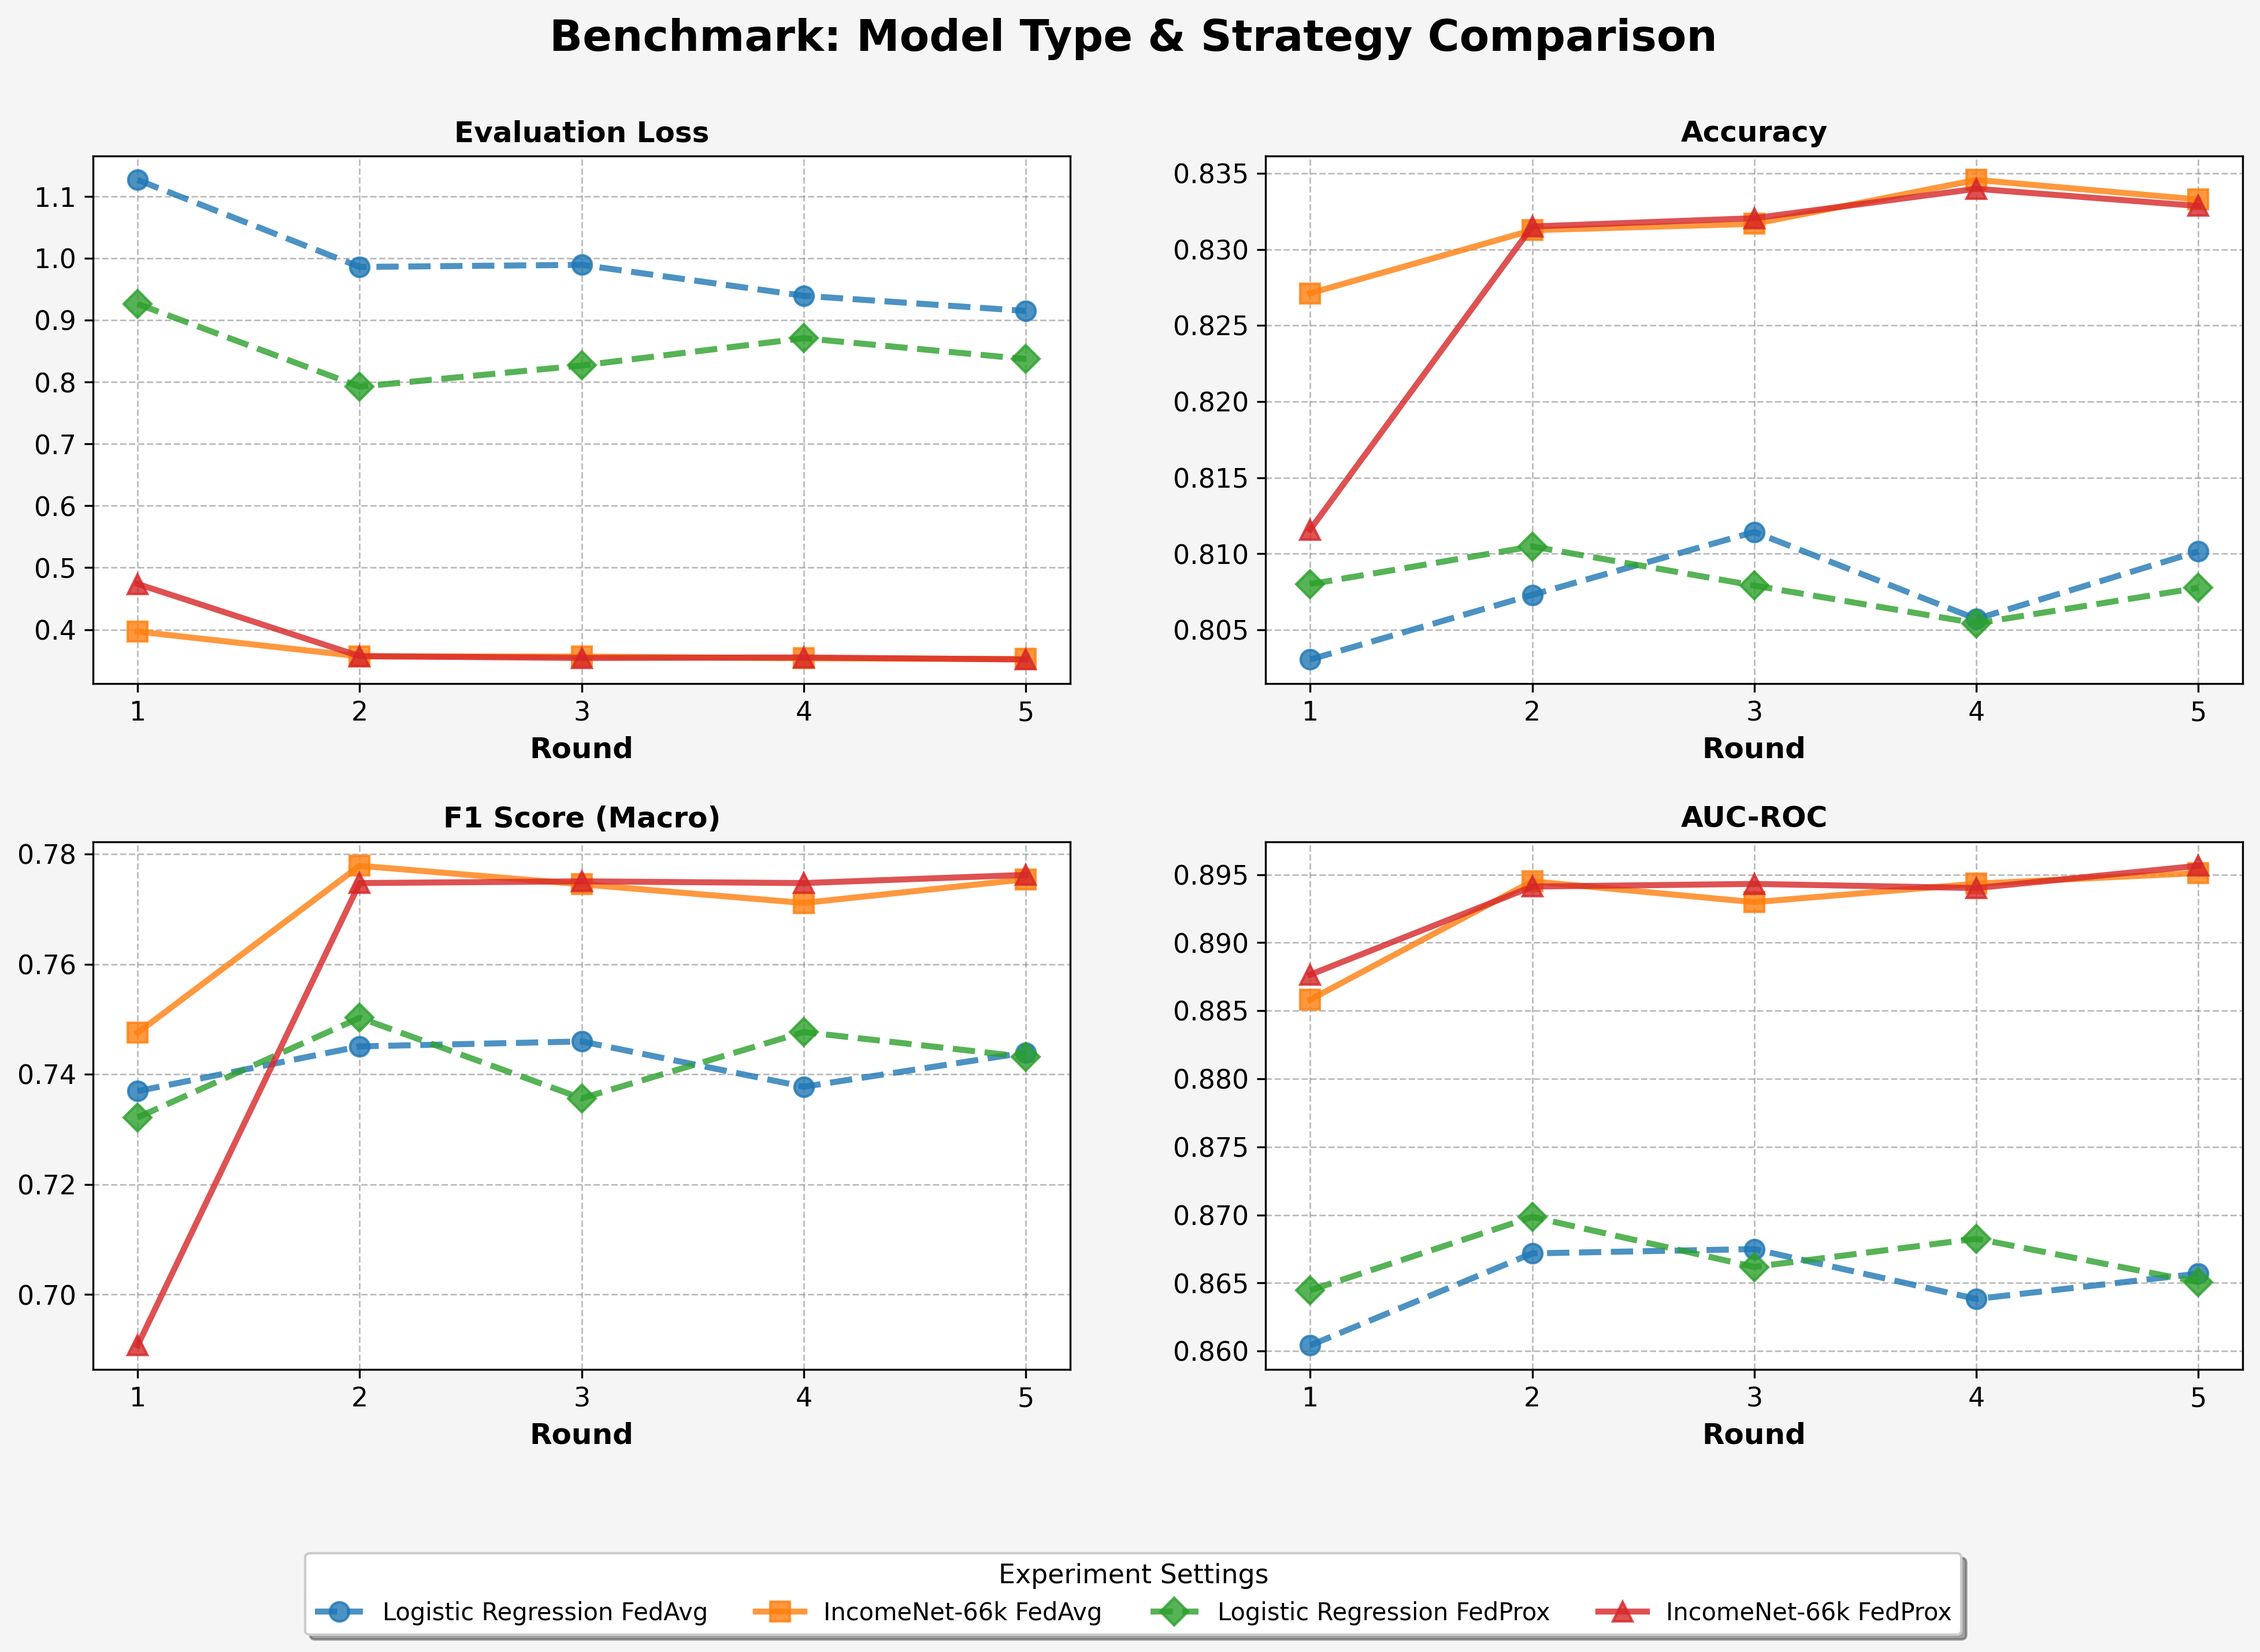
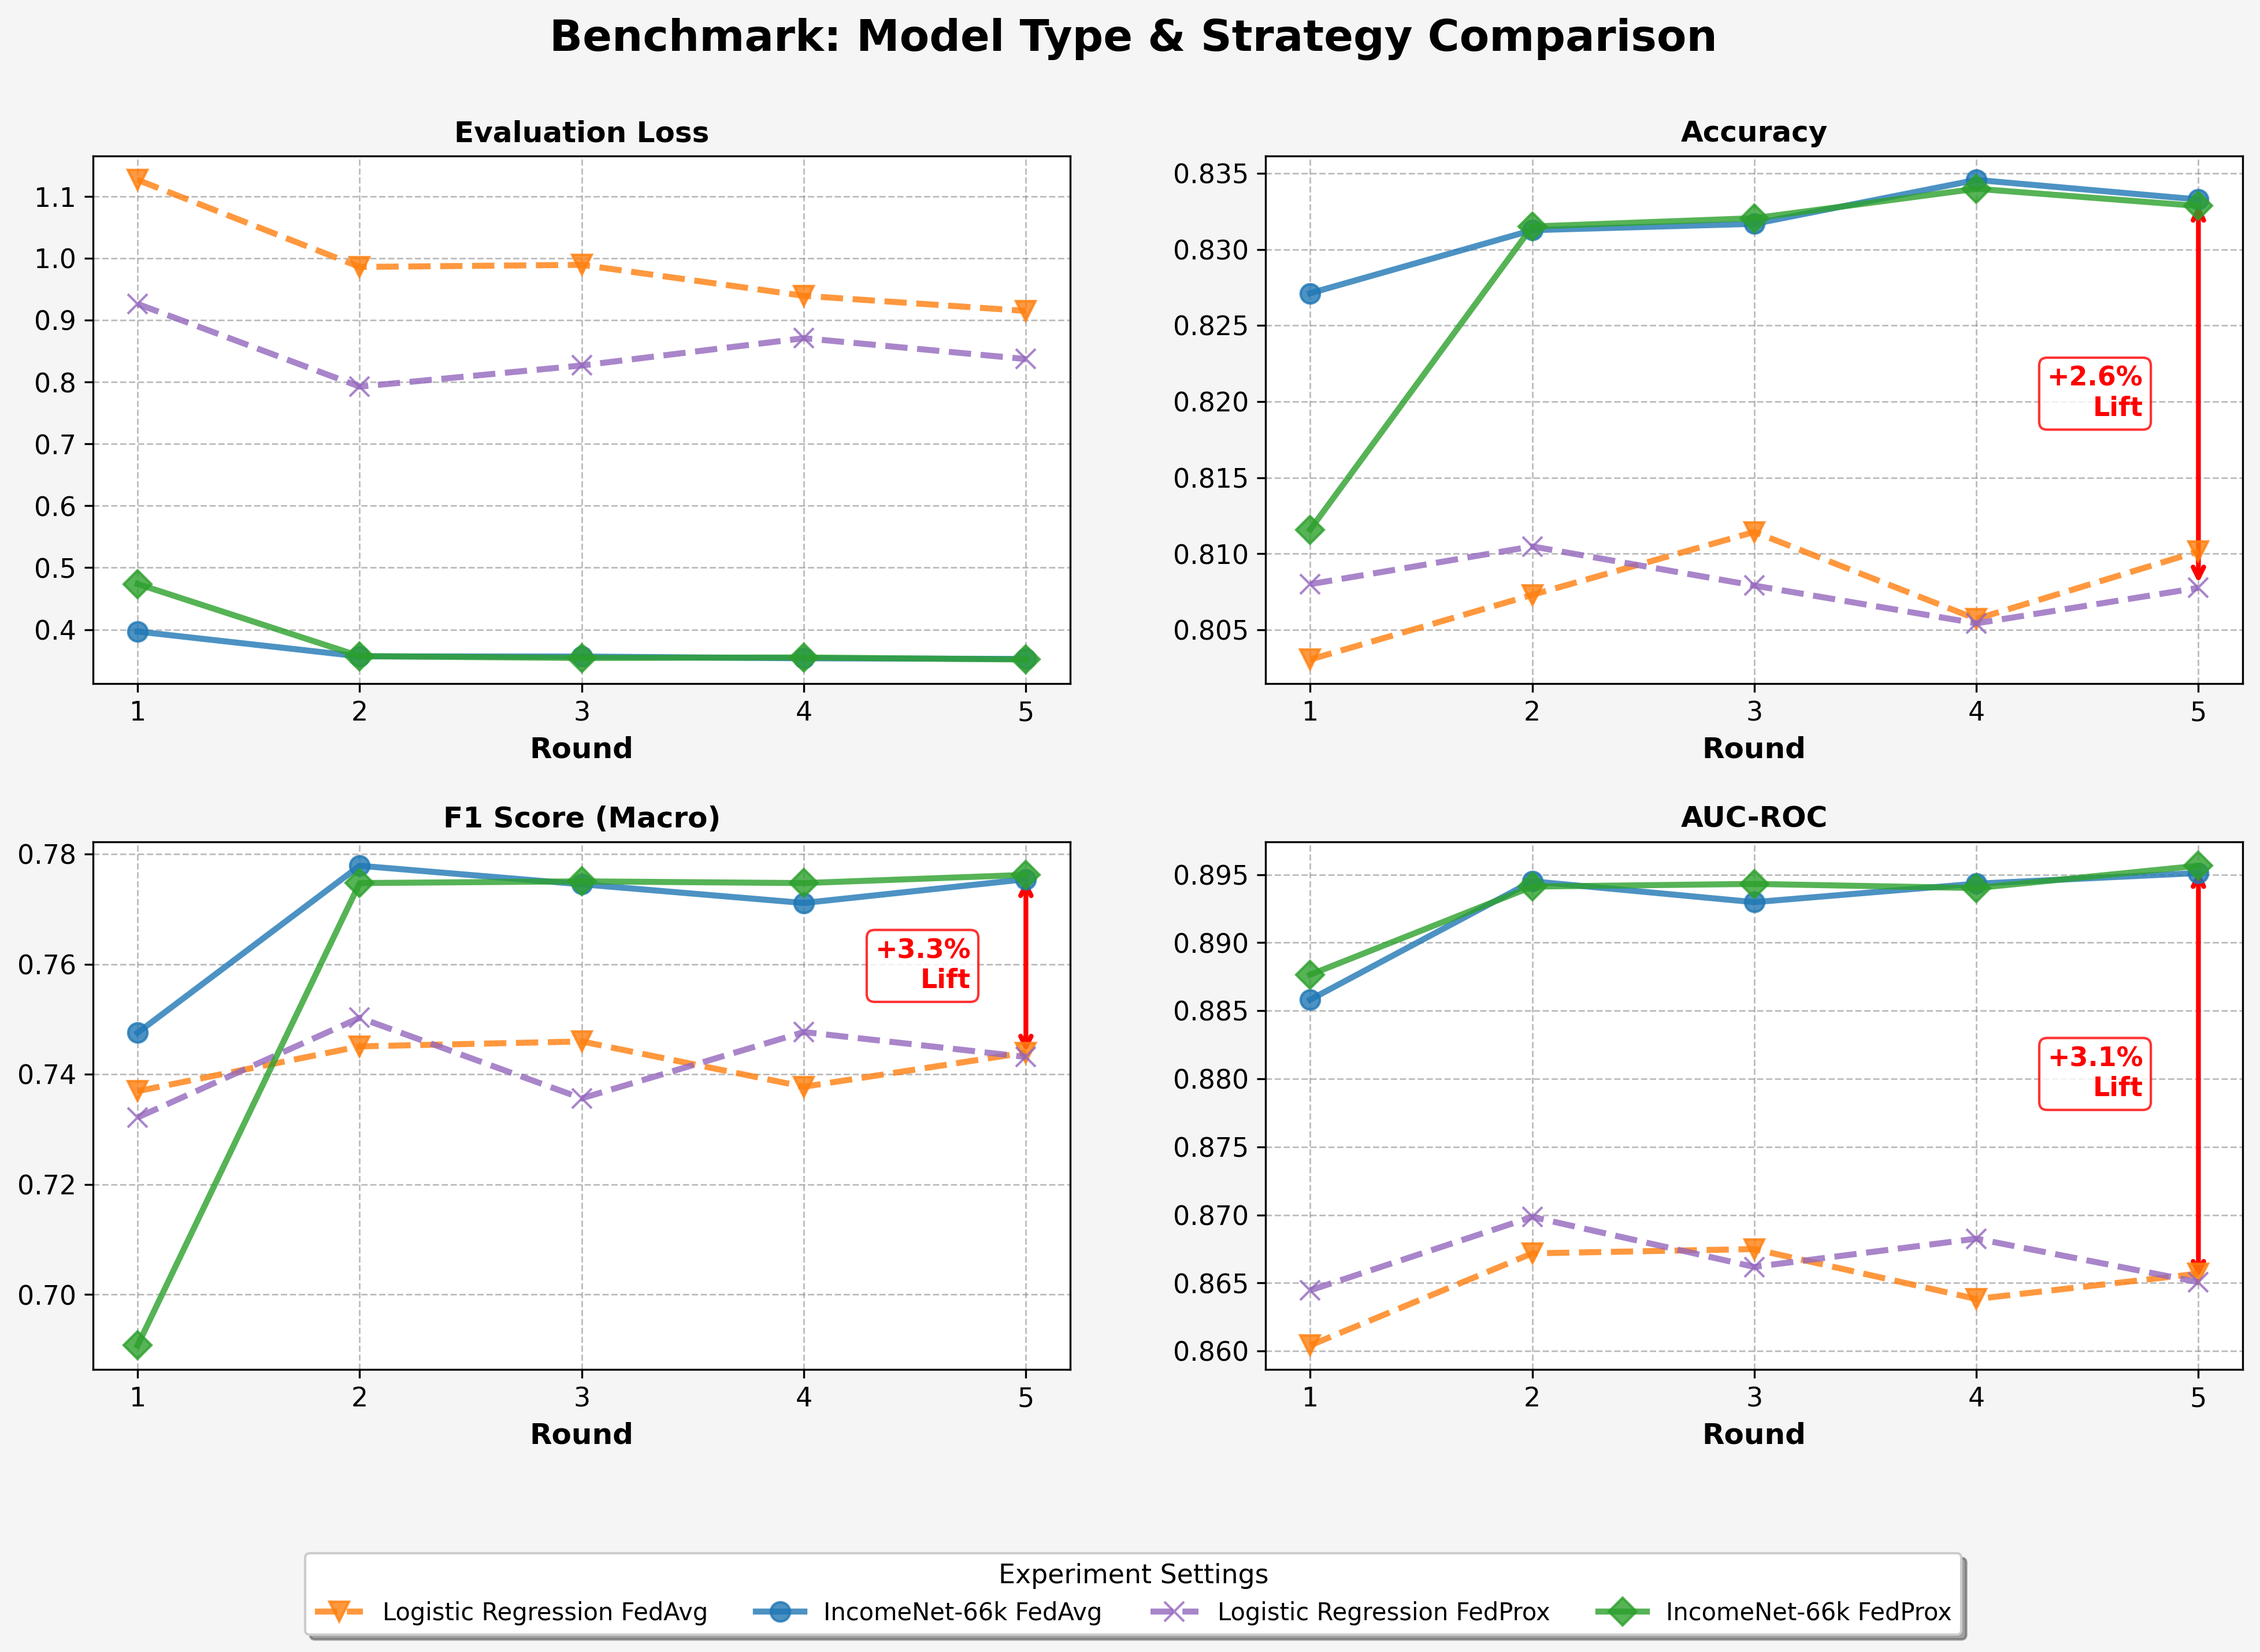
update plots

diff --git a/plot_results.py b/plot_results.py
@@ -11,7 +11,7 @@ plt.rcParams['axes.labelsize'] = 12
 plt.rcParams['axes.titlesize'] = 14
 plt.rcParams['legend.fontsize'] = 10
 plt.rcParams['figure.dpi'] = 150
-RESULTS_DIR = "final_results"
+RESULTS_DIR = "presentation_results"
 
 def load_experiment_data(exp_name: str) -> Tuple[Optional[Dict], Optional[Dict]]:
     """
@@ -109,15 +109,34 @@ def get_plot_style(exp_name: str,
     Returns:
         A dictionary containing style properties for plotting.
     """
+    exp_lower = exp_name.lower()
+    
     style = {
         'color': next(color_cycle),
         'marker': next(marker_cycle),
         'linestyle': '-'
     }
-    
-    if "logreg" in exp_name.lower():
-        style['linestyle'] = '--'
+
+    if "logreg" in exp_lower:
+        style['linestyle'] = '--' 
         
+        if "fedprox" in exp_lower:
+            style['color'] = '#9467bd' 
+            style['marker'] = 'x'
+        elif "fedavg" in exp_lower:
+            style['color'] = '#ff7f0e' 
+            style['marker'] = 'v'      
+            
+    else:
+        style['linestyle'] = '-'  
+        
+        if "fedprox" in exp_lower:
+            style['color'] = '#2ca02c' 
+            style['marker'] = 'D'     
+        elif "fedavg" in exp_lower:
+            style['color'] = '#1f77b4'  
+            style['marker'] = 'o'      
+
     return style
 
 def plot_single_experiment(exp_name: str, 
@@ -182,14 +201,15 @@ def plot_single_experiment(exp_name: str,
 
 def plot_comparison(all_experiments: Dict[str, Tuple[Dict, Dict]]) -> None:
     """
-    Generates and saves a comparison plot for multiple experiments.
+    Generates and saves a comprehensive 2x2 comparison plot for multiple experiments.
 
-    This creates a 2x2 grid comparing the global evaluation loss, accuracy, F1,
-    and AUC for all provided experiments.
+    This function visualizes the global performance metrics (loss, accuracy, F1-score,
+    and AUC) across different experimental runs. It plots each experiment's global
+    history on four separate subplots.
 
     Args:
-        all_experiments: A dictionary mapping experiment names to their
-            (global_history, local_history) data tuples.
+        all_experiments: A dictionary where keys are experiment names and values are
+            tuples containing the global and local history dictionaries for that run.
     """
     if len(all_experiments) < 2:
         print("Not enough experiments for a comparison plot.")
@@ -222,11 +242,25 @@ def plot_comparison(all_experiments: Dict[str, Tuple[Dict, Dict]]) -> None:
         ax.grid(True, which='major', linestyle='--', linewidth=0.7, color='gray', alpha=0.5, zorder=0)
         ax.xaxis.set_major_locator(MaxNLocator(integer=True))
         
+        max_round = 0
+        
+        current_metric_final_values = {}
+
         for exp_name in sorted(all_experiments.keys()):
             glob_hist, _ = all_experiments[exp_name]
             rounds = glob_hist["round"]
             values = glob_hist[metric_key]
             
+            if rounds[-1] > max_round:
+                max_round = rounds[-1]
+
+            if "logreg" in exp_name.lower():
+                current_metric_final_values['LogReg'] = (rounds[-1], values[-1])
+            else:
+                current_val = values[-1]
+                if 'IncomeNet' not in current_metric_final_values or current_val > current_metric_final_values['IncomeNet'][1]:
+                    current_metric_final_values['IncomeNet'] = (rounds[-1], current_val)
+
             style = exp_styles[exp_name]
             label_text = format_legend_label(exp_name)
             
@@ -243,6 +277,31 @@ def plot_comparison(all_experiments: Dict[str, Tuple[Dict, Dict]]) -> None:
                 if label_text not in legend_labels:
                     legend_labels.append(label_text)
                     legend_handles.append(line)
+
+        target_metrics = ['eval_acc', 'eval_f1', 'eval_auc']
+        
+        if metric_key in target_metrics and 'IncomeNet' in current_metric_final_values and 'LogReg' in current_metric_final_values:
+            x_pos, y_incomenet = current_metric_final_values['IncomeNet']
+            _, y_logreg = current_metric_final_values['LogReg']
+            
+            gap = y_incomenet - y_logreg
+            mid_point = (y_incomenet + y_logreg) / 2
+            
+            ax.annotate(
+                '', xy=(x_pos, y_incomenet), xytext=(x_pos, y_logreg),
+                arrowprops=dict(arrowstyle='<->', color='red', lw=2)
+            )
+            
+            ax.text(
+                x_pos - (max_round * 0.05), mid_point, 
+                f'+{gap*100:.1f}%\nLift', 
+                color='red', 
+                fontweight='bold', 
+                fontsize=11,
+                ha='right', 
+                va='center',
+                bbox=dict(boxstyle="round,pad=0.3", fc="white", ec="red", alpha=0.8)
+            )
 
         ax.set_title(title, fontweight='bold', fontsize=12)
         ax.set_xlabel("Round", fontweight='bold')
@@ -268,7 +327,7 @@ def plot_comparison(all_experiments: Dict[str, Tuple[Dict, Dict]]) -> None:
     plt.savefig(save_path, dpi=300, bbox_inches='tight')
     plt.close()
     print(f"Final benchmark plot saved: {save_path}")
-
+    
 def main() -> None:
     search_pattern = os.path.join(RESULTS_DIR, "global_history_*.json")
     files = glob.glob(search_pattern)
